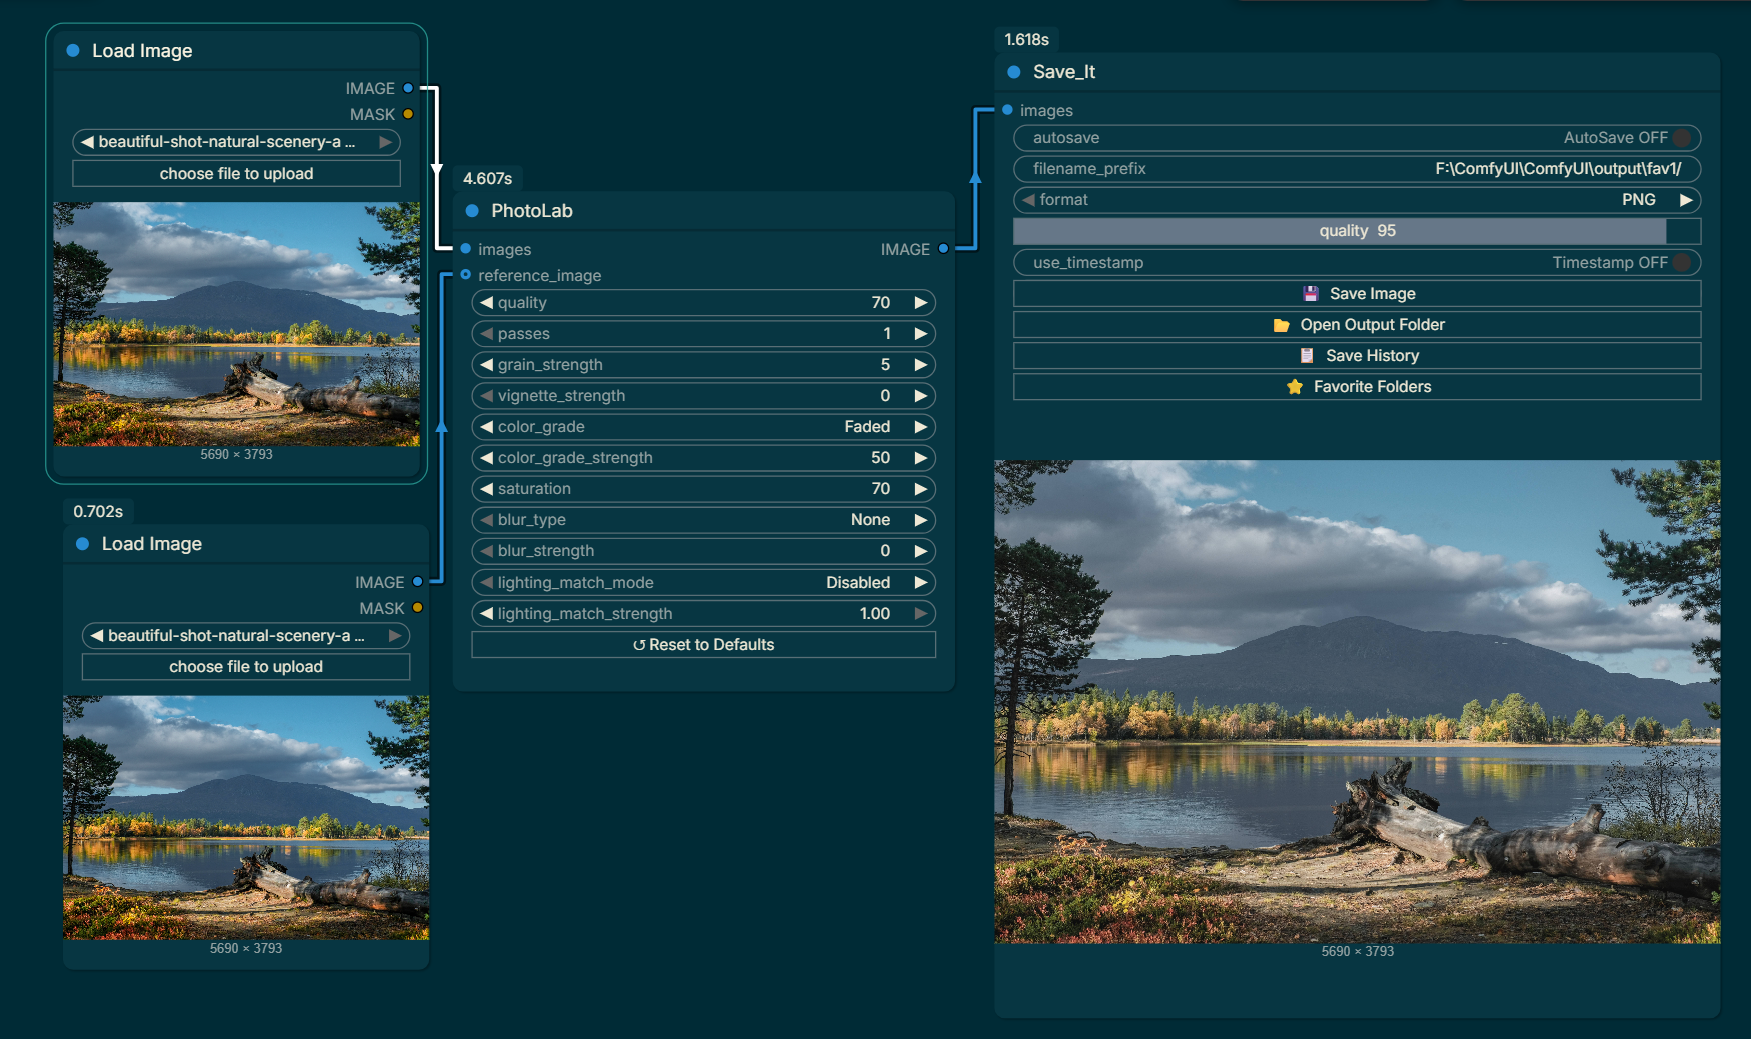
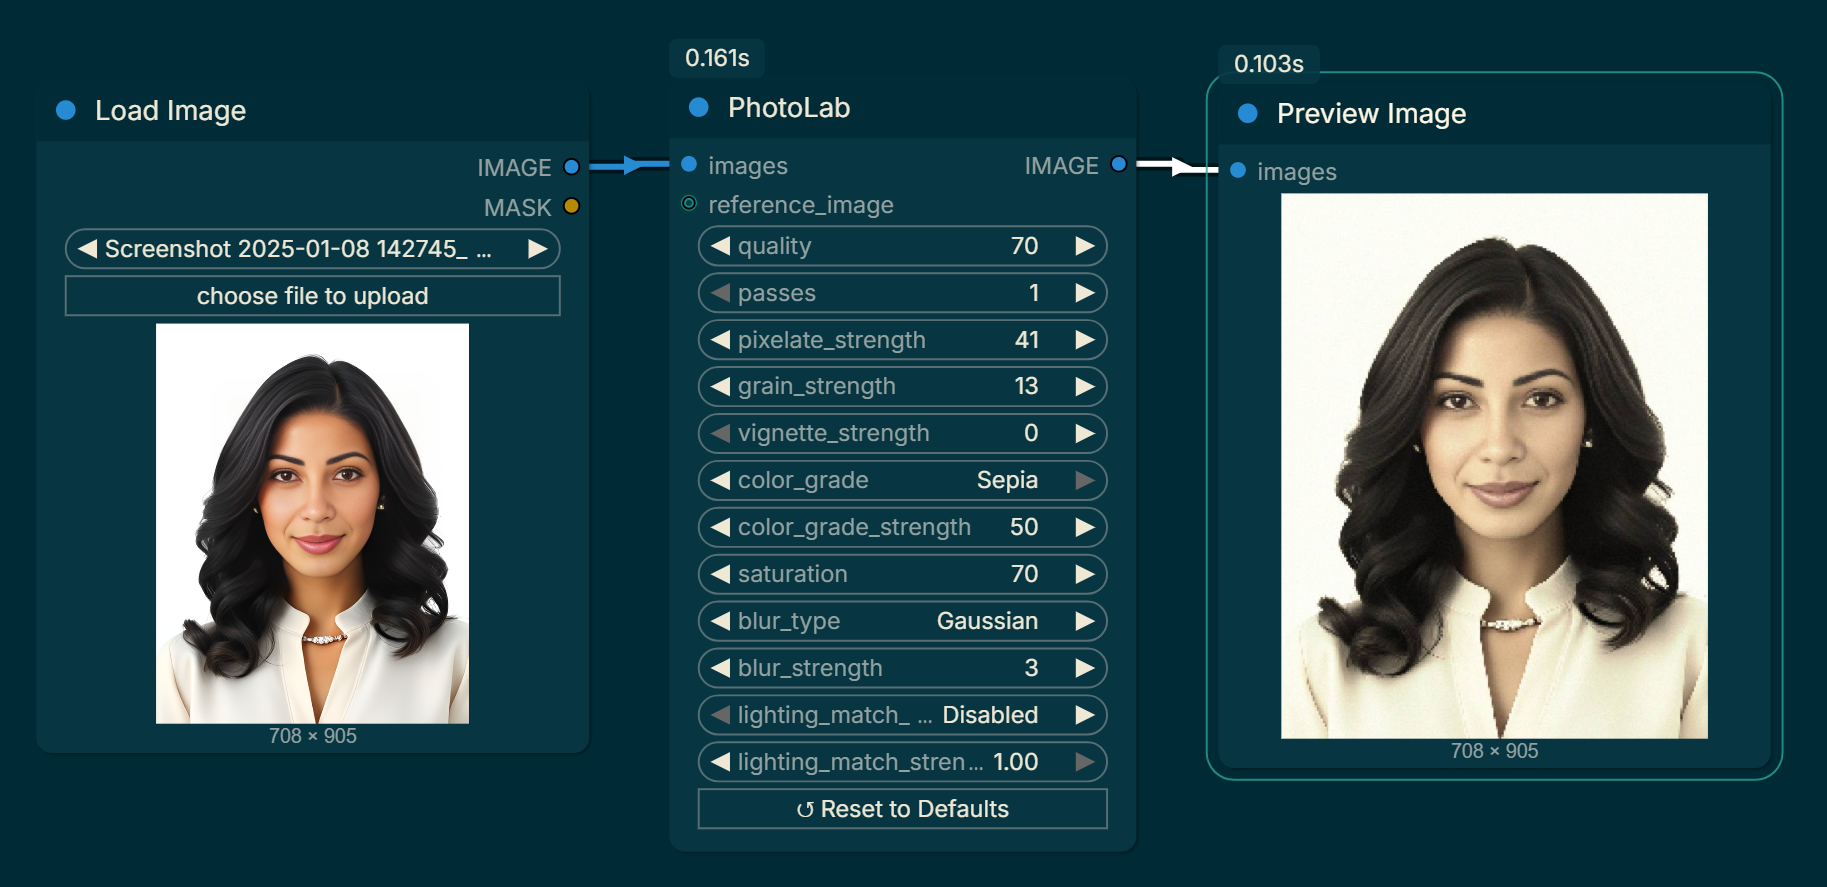
add pixelatin

diff --git a/js/photo_lab.js b/js/photo_lab.js
@@ -10,6 +10,7 @@ import { app } from "/scripts/app.js";
 const WIDGET_DEFAULTS = {
     quality:                 70,
     passes:                  1,
+    pixelate_strength:       0,
     grain_strength:          5,
     vignette_strength:       0,
     color_grade:             "Faded",

diff --git a/photo_lab.py b/photo_lab.py
@@ -30,6 +30,13 @@ class PhotoLab:
                     "step": 1,
                     "tooltip": "Number of compression passes. More passes = more degradation"
                 }),
+                "pixelate_strength": ("INT", {
+                    "default": 0,
+                    "min": 0,
+                    "max": 100,
+                    "step": 1,
+                    "tooltip": "Pixelation strength. Reduces image to a lower resolution grid and scales back up. Set to 0 to disable (0-100)"
+                }),
                 "grain_strength": ("INT", {
                     "default": 5,
                     "min": 0,
@@ -108,7 +115,7 @@ class PhotoLab:
         "Optionally matches the lighting and shadows of a reference image before applying effects."
     )
 
-    def process(self, images, quality=70, passes=1, grain_strength=5,
+    def process(self, images, quality=70, passes=1, pixelate_strength=0, grain_strength=5,
                 vignette_strength=0, color_grade="Faded", color_grade_strength=50,
                 saturation=70, blur_type="None", blur_strength=0,
                 lighting_match_mode="Disabled", lighting_match_strength=1.0,
@@ -120,6 +127,7 @@ class PhotoLab:
             images: Tensor of images in ComfyUI format [B, H, W, C]
             quality: JPG compression quality (0-100)
             passes: Number of compression passes
+            pixelate_strength: Strength of pixelation effect (0-100, 0 = disabled)
             grain_strength: Strength of grain effect (0-100, 0 = disabled)
             vignette_strength: Strength of vignette effect (0-100, 0 = disabled)
             color_grade: Color grading preset
@@ -174,6 +182,9 @@ class PhotoLab:
                     enhancer = ImageEnhance.Color(img_pil)
                     img_pil = enhancer.enhance(saturation_actual)
                 img_pil = self._apply_color_effects(img_pil, color_grade, color_grade_actual)
+
+            if pixelate_strength > 0:
+                img_pil = self._apply_pixelation(img_pil, pixelate_strength)
 
             if grain_strength > 0:
                 img_pil = self._add_film_grain(img_pil, grain_actual)
@@ -271,6 +282,25 @@ class PhotoLab:
     # =========================================================================
     # Effects helpers
     # =========================================================================
+
+    def _apply_pixelation(self, img, strength):
+        """
+        Apply real pixelation by downscaling to a reduced resolution grid
+        and scaling back up with nearest-neighbour interpolation, producing
+        hard-edged pixel blocks.
+
+        strength 1  → very subtle (large blocks only at high resolution)
+        strength 100 → extreme pixelation (very coarse grid)
+        """
+        w, h = img.size
+        # Map strength 1-100 to a scale factor range 0.5 → 0.02
+        # (i.e. keep between 50% and 2% of original pixels)
+        scale = max(0.02, 0.5 - (strength - 1) * (0.48 / 99))
+        small_w = max(1, int(round(w * scale)))
+        small_h = max(1, int(round(h * scale)))
+        # Downscale (nearest) then upscale (nearest) to get hard pixel blocks
+        img_small = img.resize((small_w, small_h), Image.NEAREST)
+        return img_small.resize((w, h), Image.NEAREST)
 
     def _apply_blur(self, img, blur_type, strength):
         """Apply various types of blur effects."""

diff --git a/README.md b/README.md
@@ -1,32 +1,174 @@
-# PhotoLab
-### ComfyUI node that applies effects to generated images like JPG compression, color grading, film grain, vignette, blur, and optional lighting matching with a reference image.
+# PhotoLab – ComfyUI Node
 
-![PhotoLab Preview](media/PhotoLab_.png)
+PhotoLab is a ComfyUI node that applies classic darkroom and film photography effects to your generated images. Think of it as a one-stop finishing touch: run your image through PhotoLab at the end of your workflow and it'll come out looking like it was shot on film, printed in a darkroom, or processed through a vintage photo lab.
 
-### Features:
-- **JPG Compression Artifacts**: Simulate digital compression degradation with adjustable quality and multiple passes
-- **Film Grain**: Add realistic film grain noise with controllable strength
-- **Vignette**: Apply darkening around image edges
-- **Color Grading**: Choose from presets (None, Warm, Cool, Faded, Sepia) with adjustable strength
-- **Saturation Control**: Adjust color saturation from grayscale to boosted
-- **Blur Effects**: Multiple blur types including Gaussian, Box, Motion (horizontal/vertical), Radial, Lens, and Soft Focus
-- **Lighting Matching**: Match lighting and shadows from a reference image using advanced algorithms (Histogram L-channel, Reinhard Transfer, Full LAB Histogram)
+---
+<img width="1684" height="780" alt="workflow" src="https://github.com/user-attachments/assets/83f5b134-5b3d-48b8-a81a-a964d14e374c" />
+---
 
-### Effects:
-- **quality**: JPG compression quality (0-100, lower = more artifacts)
-- **passes**: Number of compression passes (1-10, more = more degradation)
-- **grain_strength**: Strength of grain effect (0-100, 0 = disabled)
-- **vignette_strength**: Strength of vignette effect (0-100, 0 = disabled)
-- **color_grade**: Color grading preset ("None", "Warm", "Cool", "Faded", "Sepia")
-- **color_grade_strength**: Strength of color grade effect (0-100)
-- **saturation**: Color saturation (0-200, 100 = original)
-- **blur_type**: Type of blur ("None", "Gaussian", "Box", "Motion Horizontal", "Motion Vertical", "Radial", "Lens", "Soft Focus")
-- **blur_strength**: Strength of blur effect (0-100, 0 = disabled)
-- **lighting_match_mode**: Algorithm for lighting transfer ("Disabled", "Histogram (L-channel)", "Reinhard Transfer", "Full LAB Histogram")
-- **lighting_match_strength**: Blend strength for lighting match (0.0-1.0)
+## What It Does
 
-### Optional Parameters:
-- **reference_image**: Reference image tensor [B, H, W, C] for lighting matching (only used when lighting_match_mode is not "Disabled")
-- **Reset to Defaults** Resets all parameters to their defults
+PhotoLab stacks several effects on top of each other in a set order, giving you fine control over how "processed" your final image looks. You can push it all the way to a heavily stylized film look, or keep things subtle with just a touch of grain and a slight color grade.
 
-Credit to: https://github.com/brucew4yn3rp/ComfyUI_VintageEffect.git
+---
+
+## Installation
+
+1. Drop `photo_lab.py` and `photo_lab.js` into your `ComfyUI/custom_nodes/PhotoLab/` folder.
+2. Restart ComfyUI.
+3. Find the node under **image → effects → PhotoLab**.
+
+> **Optional:** Install `scikit-image` if you want to use the Lighting Match feature:
+> ```
+> pip install scikit-image
+> ```
+
+---
+
+## Settings Explained
+
+### 🗜 Compression
+
+| Setting | Range | What it does |
+|---|---|---|
+| **Quality** | 0 – 100 | Simulates JPG compression. Lower values introduce blocky artifacts and color banding, like a photo that's been saved at low quality. 70 is a good default for a subtle effect. |
+| **Passes** | 1 – 10 | How many times the compression is applied. Each pass builds on the last, so even a quality of 80 will look heavily degraded at 5+ passes. |
+
+**Tip:** Quality + Passes work together. A single pass at quality 30 looks different from five passes at quality 80 — experiment with both.
+
+---
+
+### 🟦 Pixelation
+
+| Setting | Range | What it does |
+|---|---|---|
+| **Pixelate Strength** | 0 – 100 | Breaks the image into visible pixel blocks, like an 8-bit or mosaic effect. 0 = off. Higher values = larger, chunkier blocks. |
+
+This is *real* pixelation — the image is literally scaled down to a tiny grid and back up. It's not the same as blur or compression artifacts. Great for retro, glitchy, or censored looks.
+
+---
+
+### 🌾 Grain
+
+| Setting | Range | What it does |
+|---|---|---|
+| **Grain Strength** | 0 – 100 | Adds film-like noise to the image. 0 = off. Around 5–15 gives a natural film feel. Push it above 40 for a gritty, pushed-film aesthetic. |
+
+---
+
+### 🌑 Vignette
+
+| Setting | Range | What it does |
+|---|---|---|
+| **Vignette Strength** | 0 – 100 | Darkens the edges and corners of the image, drawing the eye toward the center. 0 = off. 20–40 is natural-looking; above 60 gets dramatic. |
+
+---
+
+### 🎨 Color Grading
+
+| Setting | Options / Range | What it does |
+|---|---|---|
+| **Color Grade** | None, Warm, Cool, Faded, Sepia | Applies a color preset. **None** disables all color changes entirely (including saturation). |
+| **Color Grade Strength** | 0 – 100 | How strongly the grade is applied. 0 = invisible, 100 = full effect. 40–60 is a good sweet spot. |
+| **Saturation** | 0 – 200 | Controls color intensity. 100 = original colors, 0 = black and white, 200 = heavily boosted. Only active when Color Grade is not set to None. |
+
+**Color Grade Presets:**
+
+- **Warm** – Pushes reds and yellows; pulls back blues. Good for golden hour or cozy scenes.
+- **Cool** – Boosts blues, reduces reds. Works well for night scenes, sci-fi, and moody portraits.
+- **Faded** – Reduces contrast and lifts brightness slightly. The classic "film scan" or Instagram look.
+- **Sepia** – Full sepia tone. Vintage photographs, old documents, historical aesthetics.
+
+> ⚠ If Color Grade is set to **None**, the Saturation slider is ignored. This is intentional — it lets you pass the image through completely untouched in terms of color.
+
+---
+
+### 🌀 Blur
+
+| Setting | Options / Range | What it does |
+|---|---|---|
+| **Blur Type** | None, Gaussian, Box, Motion Horizontal, Motion Vertical, Radial, Lens, Soft Focus | The style of blur to apply. None = disabled. |
+| **Blur Strength** | 0 – 100 | How strong the blur is. Has no effect if Blur Type is set to None. |
+
+**Blur Type Guide:**
+
+- **Gaussian** – Smooth, natural-looking blur. The classic.
+- **Box** – Slightly harsher, geometric blur. More stylized than Gaussian.
+- **Motion Horizontal / Vertical** – Simulates camera movement or subject motion in one direction.
+- **Radial** – Zoom blur from the center outward, like a camera zooming during exposure.
+- **Lens** – Keeps the center sharp and blurs the edges, mimicking shallow depth of field from a real lens.
+- **Soft Focus** – A gentle, dreamy glow — not pure blur, but a softening of the whole image.
+
+---
+
+### 💡 Lighting Match *(Optional)*
+
+This feature adjusts the brightness and shadows of your image to match a reference photo. Useful when you want your generated image to have the same *mood* or *exposure* as a photo you already like.
+
+| Setting | Options / Range | What it does |
+|---|---|---|
+| **Lighting Match Mode** | Disabled, Histogram (L-channel), Reinhard Transfer, Full LAB Histogram | The algorithm used to transfer lighting from the reference. |
+| **Lighting Match Strength** | 0.0 – 1.0 | Blends between your original image (0.0) and the fully matched result (1.0). |
+| **Reference Image** | Image input | The image whose lighting you want to copy. Only used when Lighting Match Mode is not Disabled. |
+
+**Which mode to pick?**
+
+- **Histogram (L-channel)** — Best all-around choice. Matches how bright or dark the image is without changing colors.
+- **Reinhard Transfer** — Faster and subtler. Good for small corrections or when you just want to nudge the exposure.
+- **Full LAB Histogram** — Matches everything including color tone. Can shift colors noticeably — useful for matching a specific mood but may need lower strength.
+
+> ⚠ Lighting Match requires `scikit-image`. If it's not installed, this section is silently skipped.
+
+---
+
+## Effect Order
+
+PhotoLab applies effects in this fixed order:
+
+1. **Lighting Match** (if enabled)
+2. **Saturation**
+3. **Color Grade**
+4. **Pixelation**
+5. **Film Grain**
+6. **Blur**
+7. **Vignette**
+8. **JPG Compression** (applied once per pass)
+
+This order is intentional. For example, grain is applied before vignette so the edges darken *over* the grain, which is how real film vignetting works. If you're after a specific look, understanding this order helps you predict the result.
+
+---
+
+## The Reset Button
+
+The node includes a **↺ Reset to Defaults** button at the bottom. Click it to restore all settings to their original values in one go — handy when you've tweaked too many things and want a clean slate.
+
+---
+
+## Suggested Presets
+
+Here are some starting points to get you going:
+
+**🎞 Natural Film Scan**
+> Quality: 75 · Passes: 1 · Grain: 8 · Vignette: 20 · Color Grade: Faded · Grade Strength: 50 · Saturation: 85
+
+**📷 Warm Vintage**
+> Quality: 65 · Passes: 2 · Grain: 15 · Vignette: 35 · Color Grade: Warm · Grade Strength: 60 · Saturation: 75
+
+**🌑 Moody Black & White**
+> Quality: 80 · Passes: 1 · Grain: 20 · Vignette: 45 · Color Grade: Faded · Grade Strength: 100 · Saturation: 0
+
+**👾 Retro Pixel**
+> Quality: 85 · Passes: 1 · Pixelate: 45 · Grain: 5 · Color Grade: Cool · Grade Strength: 40
+
+**📼 Degraded & Worn**
+> Quality: 40 · Passes: 4 · Grain: 25 · Vignette: 30 · Color Grade: Faded · Grade Strength: 70 · Blur Type: Soft Focus · Blur Strength: 15
+
+---
+
+## Tips
+
+- **Less is more.** It's easy to over-process. Start with subtle settings and work up.
+- **Grain + Faded** is the most versatile combo for a film look that works on almost anything.
+- **Lighting Match at 0.5–0.7 strength** gives you the feel of a reference without making the image look forced.
+- **Pixelation and grain pair well** — the grain breaks up the hard block edges for a more organic retro feel.
+- **Vignette last** (in the pipeline) means it always sits cleanly on top of everything else, which is what you want.
